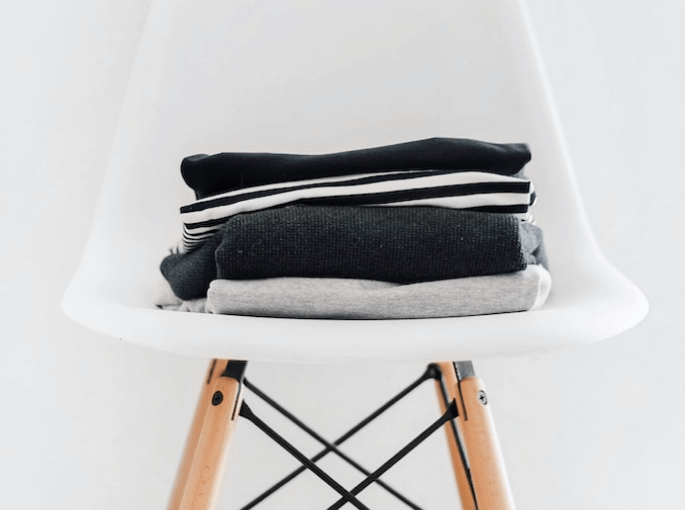
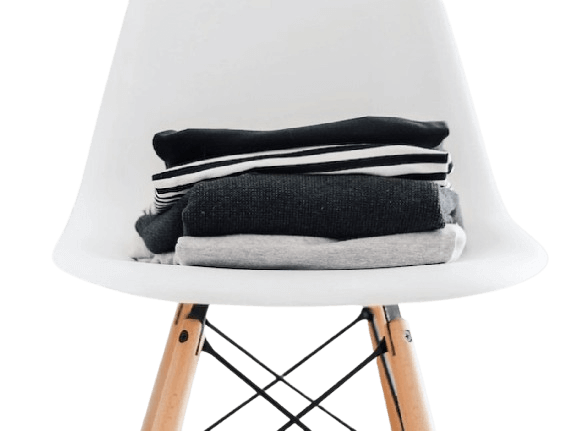
Oimizando as imagens e o metadata do html com a atualizaçao a função do menu

diff --git a/index.html b/index.html
@@ -4,13 +4,22 @@
 <head>
   <meta charset="UTF-8" />
   <meta name="viewport" content="width=device-width, initial-scale=1.0" />
+  <!-- Meta descrição -->
+  <meta name="description" content="Compre na Avanti e descubra uma seleção de produtos das melhores marcas. Entrega rápida, pagamento seguro e atendimento de qualidade." />
+  <!-- Meta keywords "palavras-chave" -->
+  <meta name="keywords" content="Avanti, loja online, ecommerce, marcas, produtos de qualidade, entrega rápida" />
+
+  <meta name="author" content="Avanti" />
+
+  <!-- Fontes do google -->
   <link
     href="https://fonts.googleapis.com/css2?family=Nunito+Sans:opsz,wght@6..12,200..1000&family=Nunito:wght@200..1000&display=swap"
     rel="stylesheet" />
   <link rel="stylesheet" href="build/stylesheets/index.css" />
   <!-- Link do Swiper CSS -->
   <link rel="stylesheet" href="https://cdn.jsdelivr.net/npm/swiper@11/swiper-bundle.min.css" />
-  <title>Avanti</title>
+  <title>Avanti | Loja de Moda</title>
+
 </head>
 
 <body>
@@ -72,7 +81,8 @@
       <nav class="menu" aria-label="Menu de Navegação">
         <ul>
           <li>
-            <button class="menu-toggle">
+              <button class="menu-toggle" aria-label="Abrir menu principal">
+
 
               <svg width="14" height="12" viewBox="0 0 14 12" fill="none" xmlns="http://www.w3.org/2000/svg">
                 <line x1="1" y1="6" x2="13" y2="6" stroke="currentColor" stroke-width="2" stroke-linecap="round" />
@@ -228,7 +238,7 @@
                 <li><a href="#">VR/AR</a></li>
                 <li><a href="#">PC Components</a></li>
               </ul>
-              </ul>
+              
             </div>
 
           </div>
@@ -252,7 +262,7 @@
     <div class="hero-banner-promotion">
       <h1>super <span>sale</span> </h1>
       <p>Selected items up to</p>
-      <h3> 50%off</h3>
+      <h4> 50%off</h4>
     </div>
   </section>
 

diff --git a/src/js/menu.js b/src/js/menu.js
@@ -1,0 +1,55 @@
+const button_menu = document.querySelector(".menu-toggle");
+const li_buttoon = document.querySelector(".menu-toggle-li");
+const content_menu = document.querySelector(".container-menu");
+
+const category_links = document.querySelector(".category-links");
+const paragraph_category = document.querySelector(".category");
+
+let menu = false;
+
+function OpenMenu() {
+  if (!menu) {
+    content_menu.style.display = "block";
+    category_links.style.display = "flex";
+    paragraph_category.style.display = "none";
+    menu = true;
+  } else {
+    content_menu.style.display = "none";
+    menu = false;
+  }
+}
+
+function OpenCategory() {
+  if (!menu) {
+    content_menu.style.display = "block";
+    category_links.style.display = "none";
+    paragraph_category.style.display = "flex";
+    menu = true;
+  } else {
+    content_menu.style.display = "none";
+    menu = false;
+  }
+}
+
+window.addEventListener("resize", () => {
+  if (window.innerWidth <= 768) {
+    content_menu.style.display = "none";
+    return (menu = false);
+  }
+});
+
+button_menu.addEventListener("click", () => {
+  OpenMenu();
+});
+
+li_buttoon.addEventListener("click", () => {
+  OpenCategory();
+});
+
+button_menu.addEventListener("mouseenter", () => {
+  OpenMenu();
+});
+
+li_buttoon.addEventListener("mouseenter", () => {
+  OpenCategory();
+});

diff --git a/build/stylesheets/index.css b/build/stylesheets/index.css
@@ -421,7 +421,7 @@ main .home {
   text-transform: uppercase;
   color: var(--primary-color);
 }
-.baner .hero-banner-promotion h3 {
+.baner .hero-banner-promotion h4 {
   font-family: var(--nunito-font-second);
   font-weight: 700;
   font-size: 60px;

diff --git a/src/scss/_baner.scss b/src/scss/_baner.scss
@@ -54,7 +54,7 @@
       color: var(--primary-color);
     }
 
-    h3 {
+    h4 {
       font-family: var(--nunito-font-second);
       font-weight: 700;
       font-size: 60px;

diff --git a/src/js/index.js b/src/js/index.js
@@ -1,3 +1,3 @@
 import "./faq-toggle.js"
 import "./carrosel_prodcts.js"
-import "./menu-toggle.js"
+import "./menu.js"
